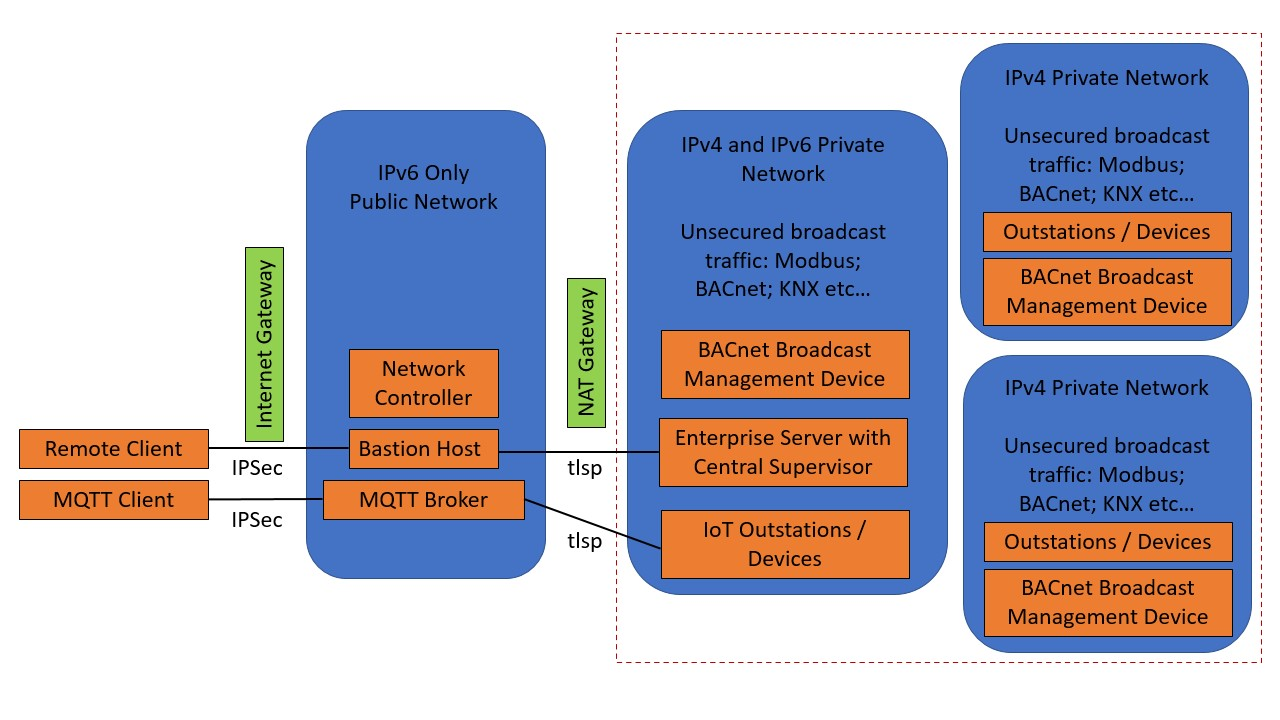
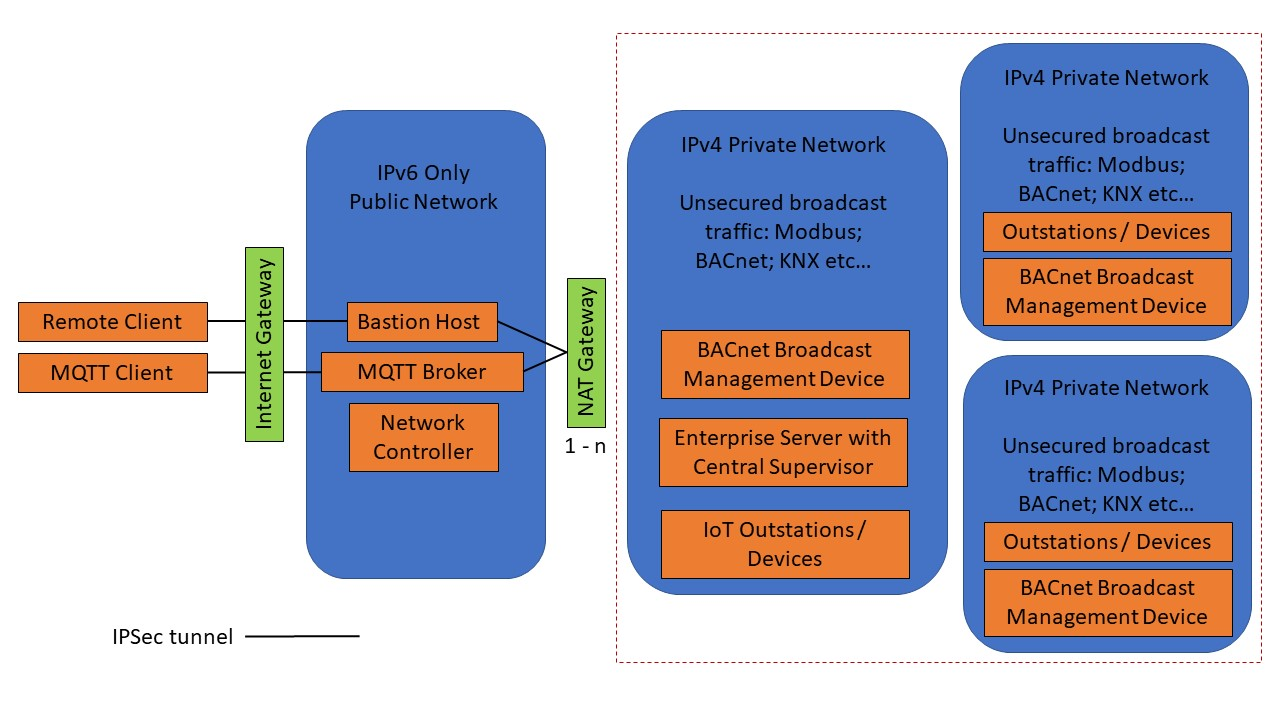
NAT64

diff --git a/digitalAssurance.tex b/digitalAssurance.tex
@@ -590,7 +590,8 @@ Therefore, other private systems may allow for a diverse and risky mix of traffi
 In the interest of privacy, scalability and security public networks need only expose IPv6 protocols to the internet.
 IPv6 is a preferrable standard for exposure to the public and IPSec security may be employed to encrypt traffic between permanently allocated network addresses~\cite{ipv6}.
 Public networks may be fitted with internet gateways that firewall anything but specific IPv6 addresses.
-Edge devices deployed on private networks may connect securely to publicly exposed devices using the transport layer security protocol over a Network Address Translation (NAT) gateway.
+Edge devices deployed on private networks may connect securely to publicly exposed devices over a 1-n Network Address Translation (NAT) 64 gateway.
+In this configuration the NAT 64 Gateway exposes a single IPv6 network address to the public network, with a dedicated port allocated to each network address within the private network.
 Network controllers can routinely test compliance of devices situated on public networks and manage network enrolment using a Framework such as FaucetSDN Device Automated Qualification~\cite{daq1}.\
 
 A typical network configuration for a private alarm management system is illustrated in Figure~\ref{Typical Network Configuration figure}.\\
@@ -708,20 +709,23 @@ Any popular attention paid to REALFEED would be purely a result of the companies
 It has been recognised the the prevailing discussion on the governance of platform ecosystems may have contributed to global ecosystem instability in alarming ways.
 The prioritisation of network effects to deliver a popular market share of consumers tends to be a common Feature.
 Therefore, this document has sought to diagnose causes of instability and define new platform ecosystem boundaries for more stable outcomes.
-It is understood that this has been achieved through an investigation of ethics, continuous integration processes and operations.
+It is understood that this has been achieved through an investigation of ethics, continuous integration processes and operations.\\
+
 This investigation appreciates the differences between the \emph{states} of Locke and \emph{State} of Hobbes.
 The Sovereignty of states and their role in forming civil society are recognised and this platform submits to the necessary assurance regime of a state.
 However, a significant difference of this platform ecosystem to others is the acknowledgement that a society need submit to a global Sovereign of State which accounts for the condition of the Earth's ecosystem.
 What follows is the use of a Hobbesian Commonwealth Cost of Carbon as an overall quality of life indicator and a Rawlsian process of alarm management.
-The resulting \emph{Commonwealth of Peoples} could adopt traditional principles of justice amongst free and democratic peoples without conflict.\
+The resulting \emph{Commonwealth of Peoples} could adopt traditional principles of justice amongst free and democratic peoples without conflict.\\
+
 Complimentors are encouraged to develop their own Features for integration with this ethical Framework.
 A minimal set of criteria has been identified for complimentors to develop new Features for end-consumers.
-Although these criteria are not nearly complete at this point of time, it is hoped that they prove a stable enough starting point for generating interest.\
+Although these criteria are not nearly complete at this point of time, it is hoped that they prove a stable enough starting point for generating interest.\\
+
 In operation, this platform ecosystem acts as an agent for one person.
 It's intentions are to share knowledge in concert with other Professionals to develop mutually assured approaches in Good faith.
-Licensing of Property is highly permissive to support conditions of fair liberty and equality of opportunity.\
+Licensing of Property is highly permissive to support conditions of fair liberty and equality of opportunity.
 A public commitment by the authors to this document has now been justified, made public and is fully auditable.
-Our knowledge exchange and learning process through failure continues.\
+Our knowledge exchange and learning process through failure continues.\\
 
 \pagebreak
 
